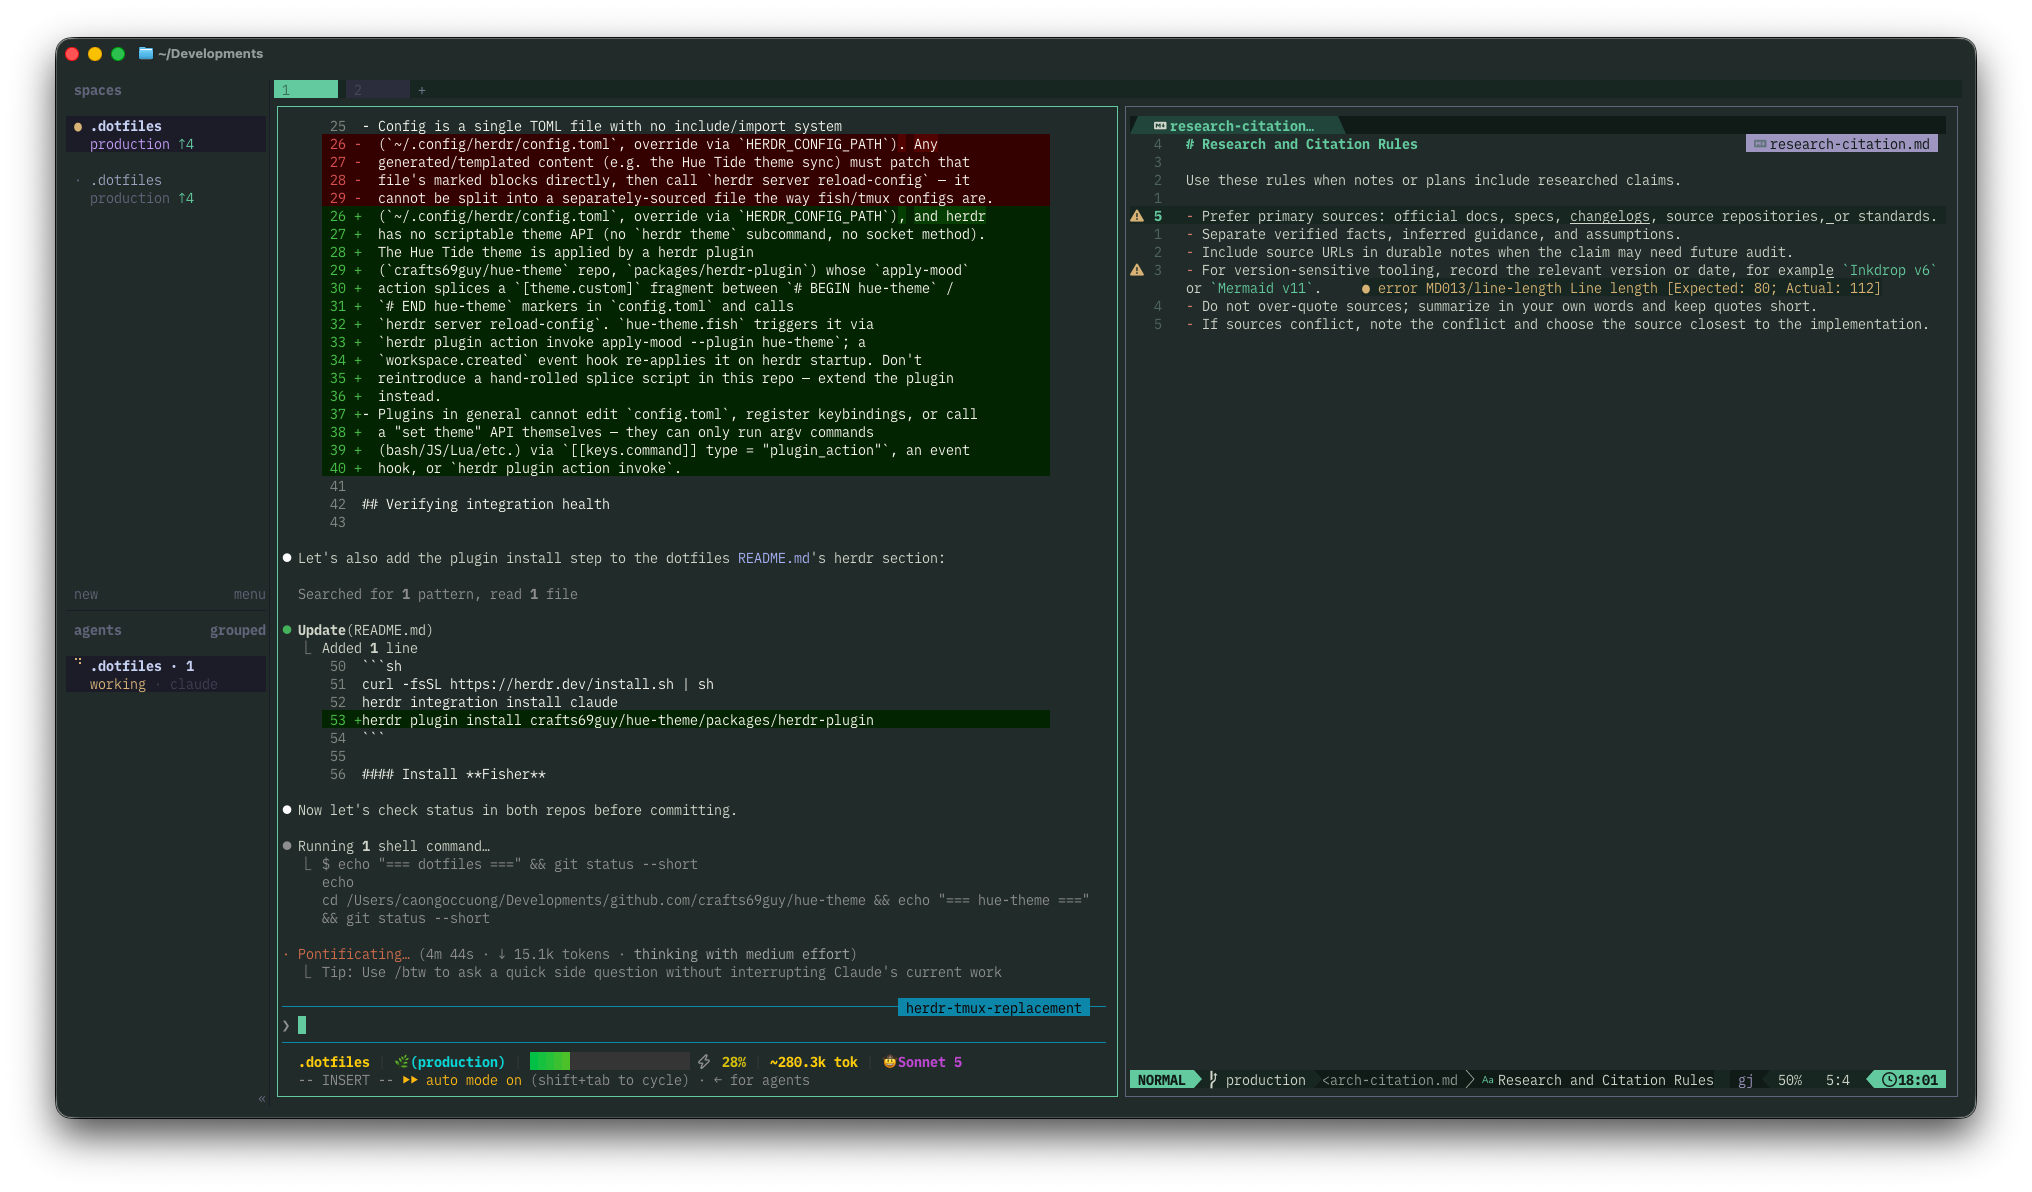
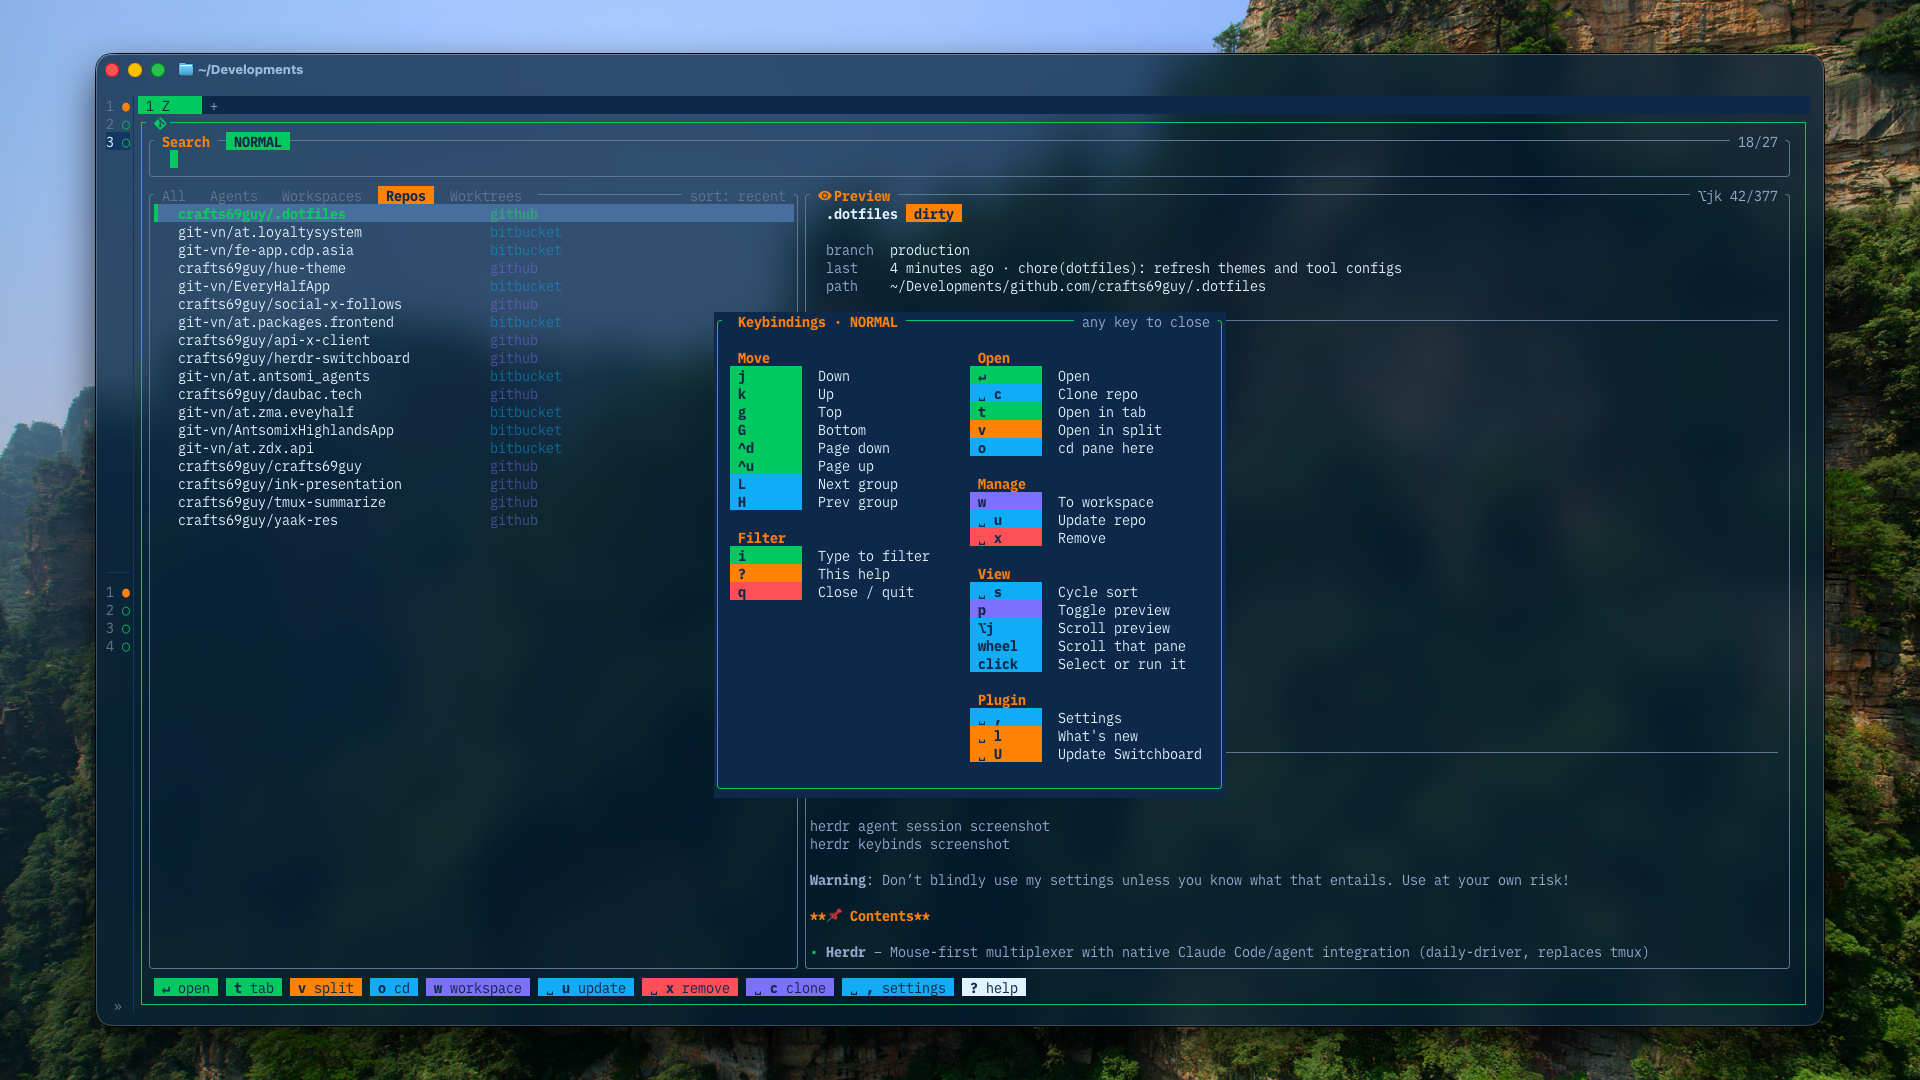
docs(readme): refresh dotfiles screenshots

diff --git a/README.md b/README.md
@@ -1,3 +1,5 @@
+![dotfiles Neovim desktop](./images/dotfiles_neovim_desktop.png)
+
 ![herdr agent session screenshot](./images/herdr_agent_session.png)
 ![herdr keybinds screenshot](./images/herdr_keybinds.png)
 
